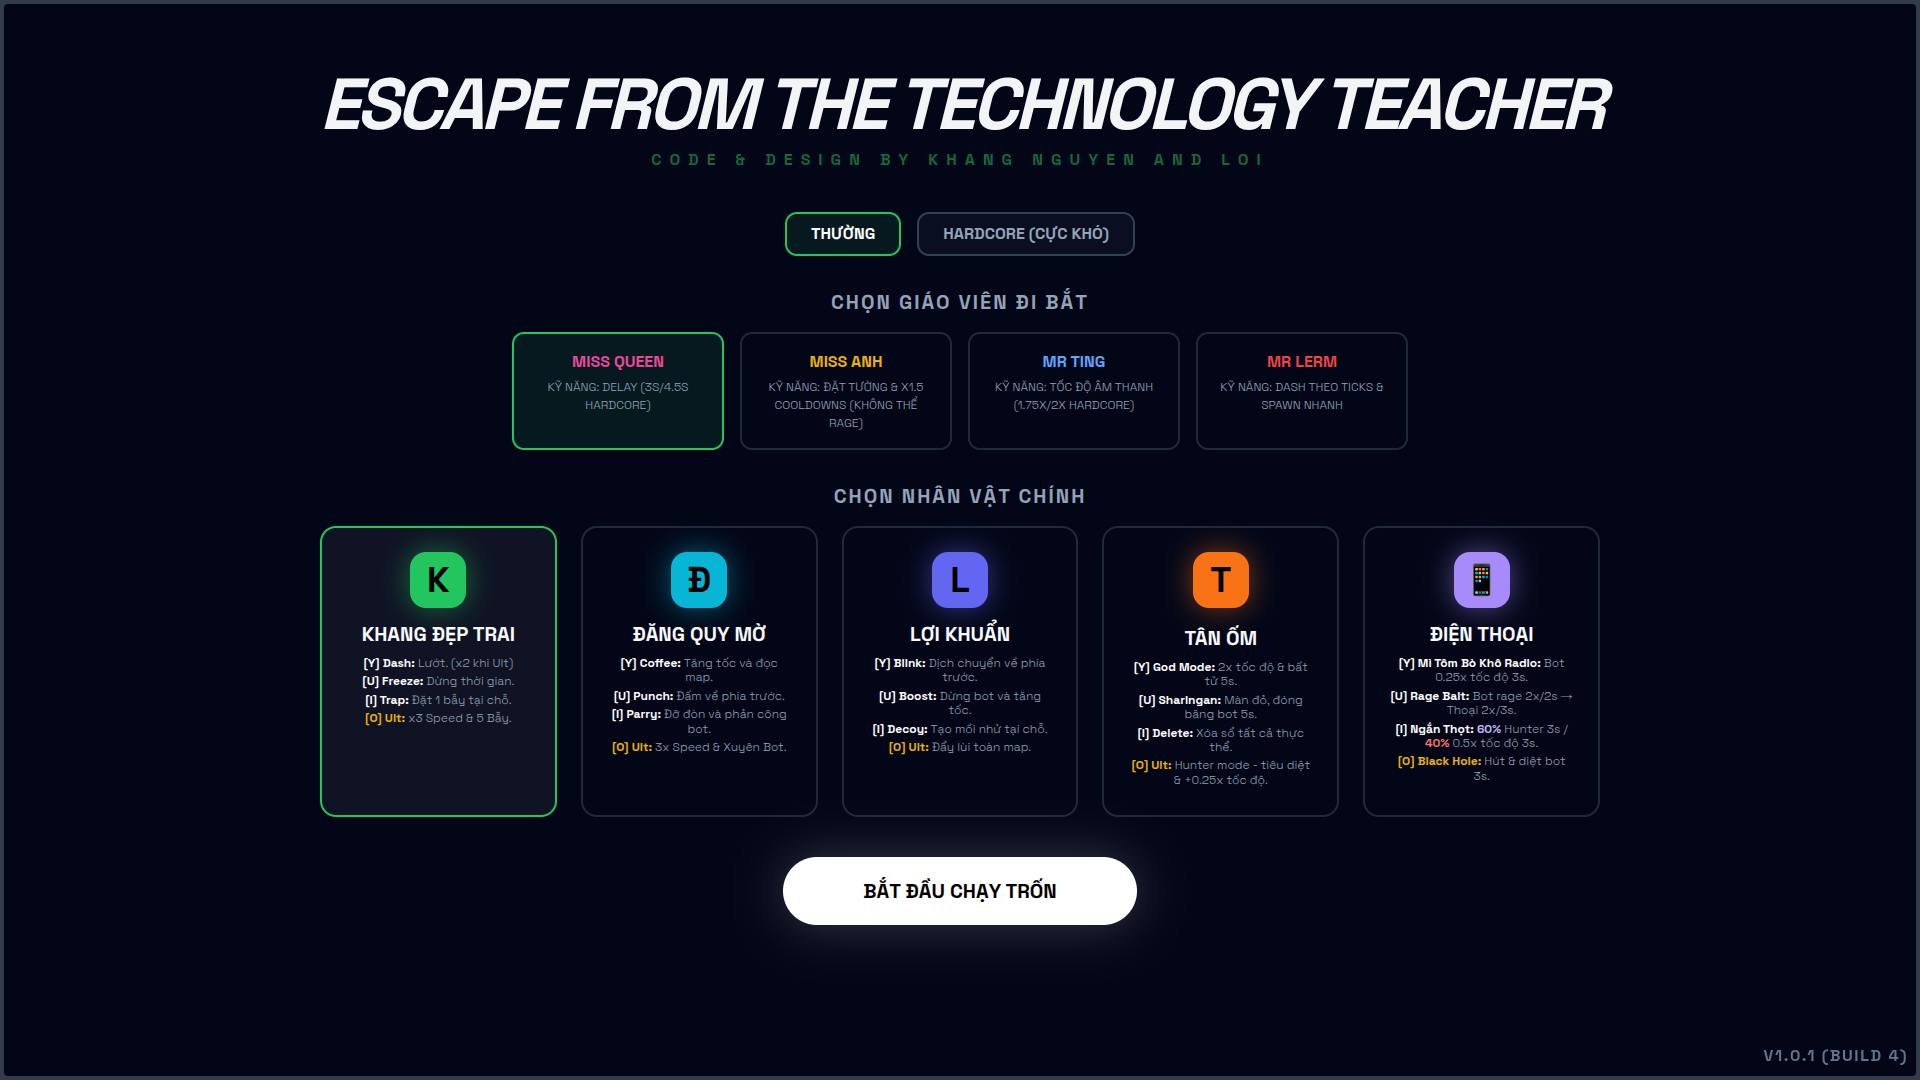
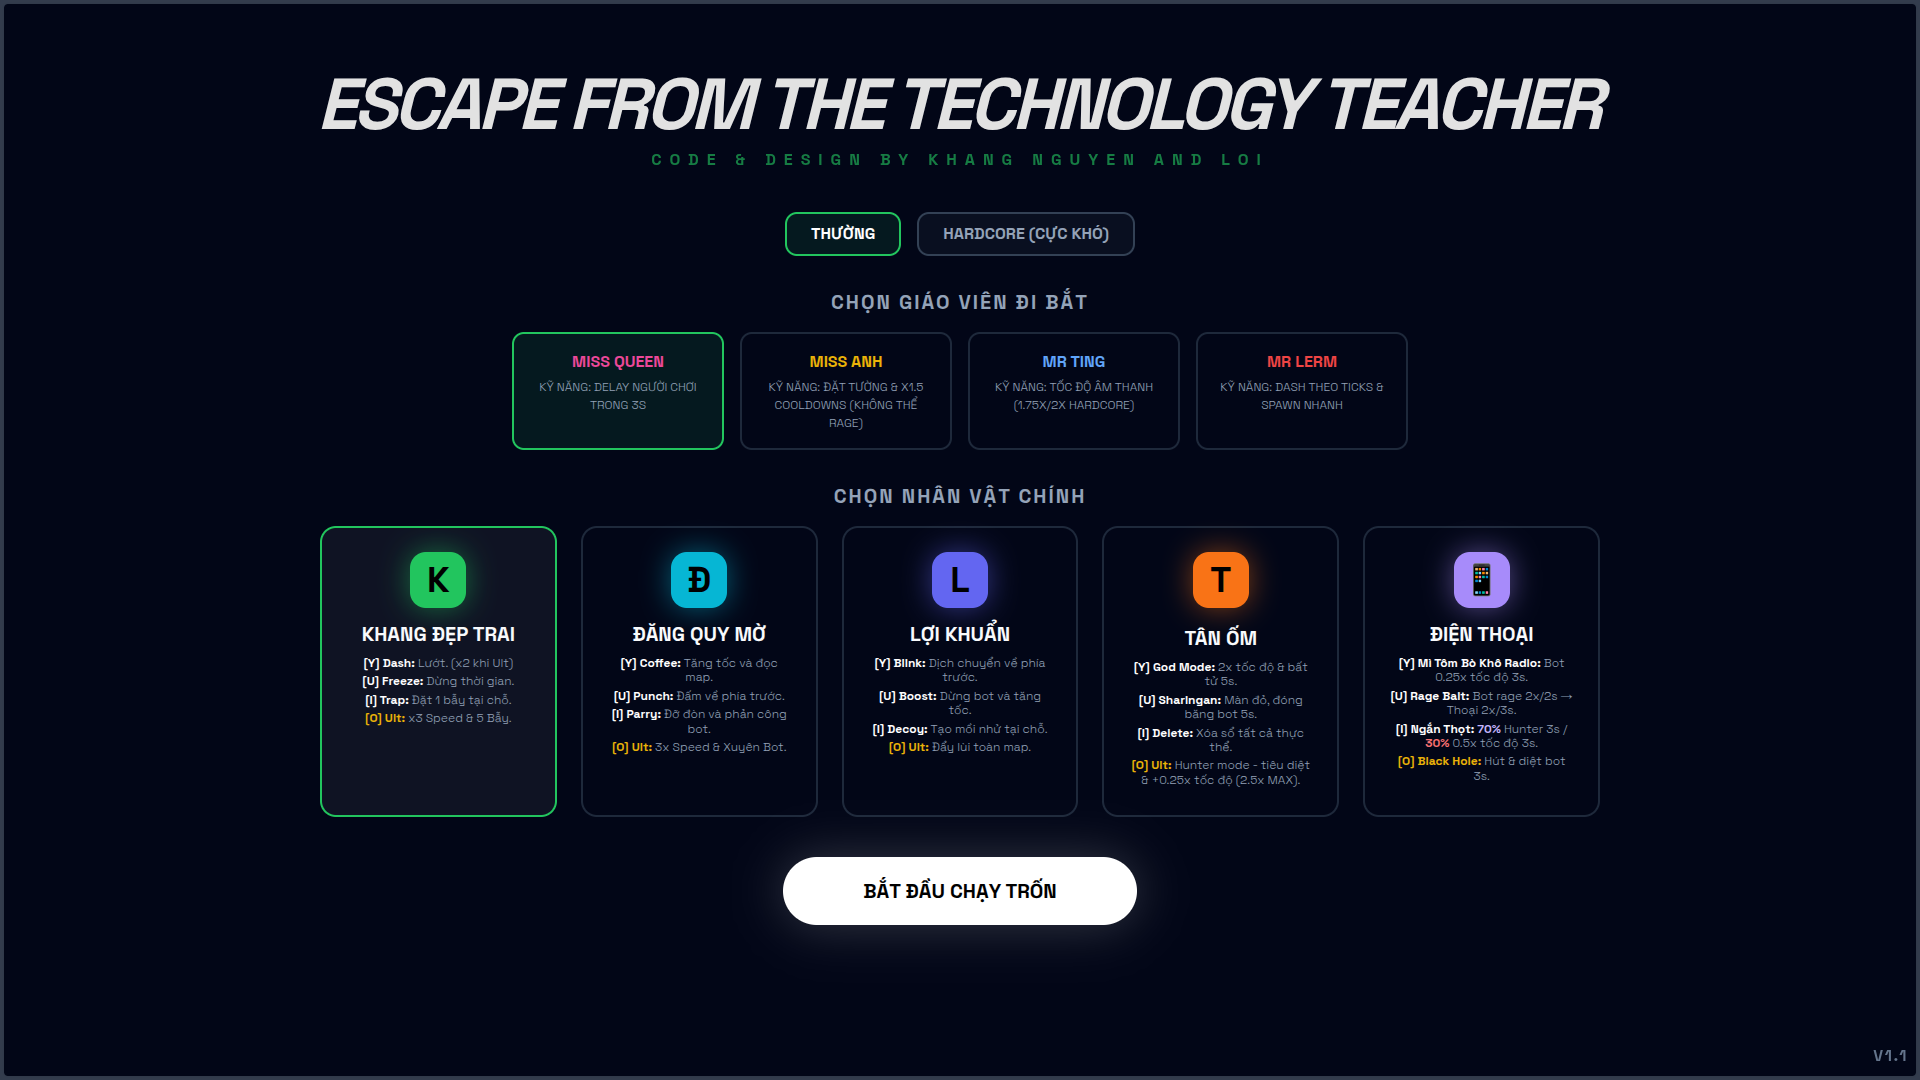
rebalance the game

diff --git a/script.js b/script.js
@@ -43,9 +43,9 @@ var frameTime = 0, lastLoop = new Date, thisLoop;
 
 const COOLDOWNS = {
     khang: { y: 3500, u: 10000, i: 5000, o: 15000 },
-    dang: { y: 7500, u: 10000, i: 10000, o: 18000 },
+    dang: { y: 7500, u: 10000, i: 11000, o: 18000 },
     loi: { y: 6000, u: 12000, i: 5000, o: 18000 },
-    tan:  { y: 5000, u: 5000, i: 5000, o: 5000 }, // dev character
+    tan:  { y: 7000, u: 7000, i: 8000, o: 25000 }, // dev character
     thoai: { y: 6000, u: 7000, i: 11000, o: 20000 }
 };
 const keys = { w: false, a: false, s: false, d: false };
